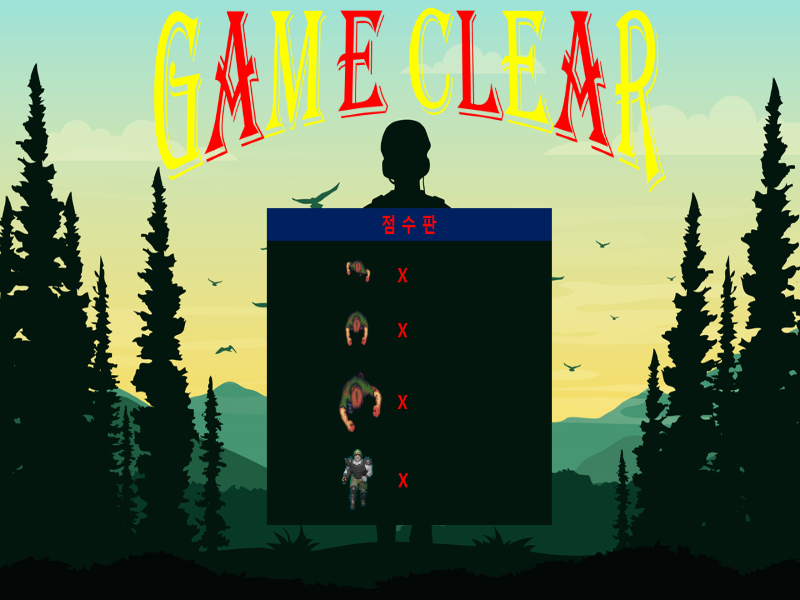
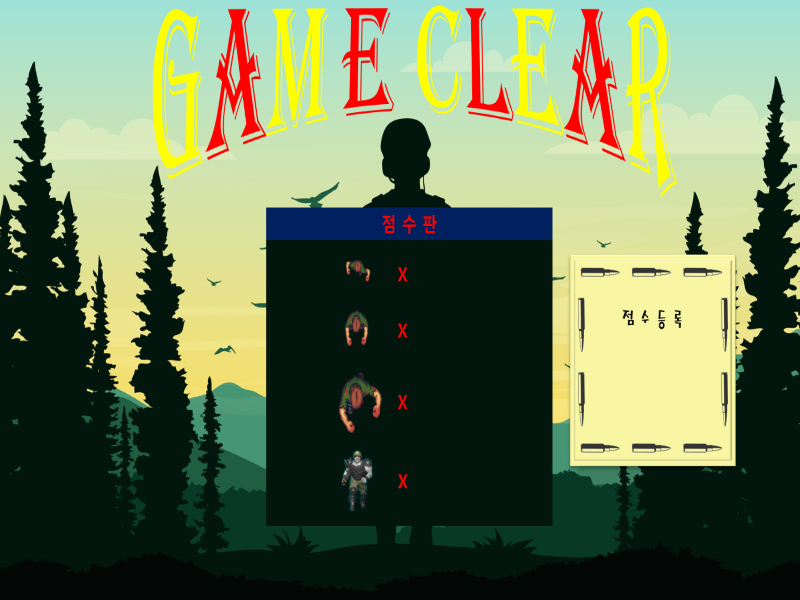
종료

diff --git a/mert.py b/mert.py
@@ -16,6 +16,9 @@ green = (17, 124, 47)
 
 #이미지
 # titleImg = pygame.image.load("images/title.png")
+scbo=pygame.image.load('images/점수판1.png')
+scbu=pygame.image.load('images/점수등록.png')
+scbuc=pygame.image.load('images/점수순위.png')
 scoreImg=pygame.image.load('images/스코어1.png')
 startImg = pygame.image.load("images/시작.png")
 quitImg = pygame.image.load("images/게임종료.png")
@@ -37,7 +40,7 @@ itemImg = ['images/item.png',"images/필살기 갯수.png"]
 zombie1Img = pygame.image.load("images/skeleton1.png")
 zombie2Img = pygame.image.load("images/skeleton2.png")
 zombie3Img = pygame.image.load('images/skeleton3.png')
-
+gg=pygame.image.load('images/game over1.png')
 fscore=0
 rockimg=pygame.image.load('images/좀비_2-removebg-preview.png')
 explosion = pygame.image.load('images/explosion.png')
@@ -51,11 +54,14 @@ score,z1c,z2c,z3c,z4c=0,0,0,0,0
 #시간
 clock = pygame.time.Clock()
 
+
+
+
 input_text = ""
 #캐릭터
 playerparms = [0,0,0,0,0,0,0,0]
-serv1parms = [ch1, 5, 377, 450, 37, 55, 1.1,0]
-serv2parms = [ch2,3.5,380,450,37,66, 1.02,1]
+serv1parms = [ch1, 6, 377, 450, 20, 20, 1.1,0]
+serv2parms = [ch2,3,380,450,20,20, 1.001,1]
 
 
 # Button 클래스
@@ -154,7 +160,7 @@ def display_scores():
     # 점수 화면에 표시
     for i, score in enumerate(sorted_scores):
         text_surface = font.render(f"{i+1}. {score['name']}: {score['score']}", True, (0, 0, 0))
-        gameDisplay.blit(text_surface, (100, 100 + i * 40))
+        gameDisplay.blit(text_surface, (100, 250 + i * 40))
 
     pygame.display.update()
 
@@ -173,7 +179,8 @@ def save_to_json(name):
 def scoresave():
     global input_text,z1c,z2c,z3c,z4c,fscore
     font = pygame.font.SysFont("malgungothic", 30)
-    te='이름입력'
+    font1 = pygame.font.SysFont("malgungothic", 25)
+    te=''
     while True:
         for event in pygame.event.get():
             if event.type == pygame.QUIT:
@@ -194,8 +201,8 @@ def scoresave():
         
         gameDisplay.fill((255, 255, 255))
         backg = Background(sb, 0, 0)
-        na=font.render(te,True,red)
-        gameDisplay.blit(na, (80, 190))
+        na=font1.render(te,True,red)
+        gameDisplay.blit(na, (610, 350))
         z1 = font.render(str(z1c), True, red)
         z2 = font.render(str(z2c),True,red)
         gameDisplay.blit(z1, (450, 252))
@@ -211,12 +218,12 @@ def scoresave():
         startButton = Button(mmImg,40,450,120,70,mmImg,50,450,board)
         quitButton = Button(quitImg,40,530,120,70,quitImg,50,530,quitgame)
         # 입력 상자 표시
-        pygame.draw.rect(gameDisplay, (255, 255, 255), (70, 252, 150, 40)) #그냥상자
-        pygame.draw.rect(gameDisplay, red, (70, 252, 150, 40),2)  #외각선
+        # pygame.draw.rect(gameDisplay, (255, 255, 255), (600, 350, 100, 40)) #그냥상자
+        # pygame.draw.rect(gameDisplay, red, (600, 350, 100, 40),2)  #외각선
         
         text_surface = font.render(input_text, True, red)  #글자써지는위치
         
-        gameDisplay.blit(text_surface, (80, 252))
+        gameDisplay.blit(text_surface, (610, 350))
 
         pygame.display.flip()
     
@@ -237,29 +244,31 @@ def text_objects(text, font):
     return textsurface, textsurface.get_rect()
 
 # 충돌시 출력
-def crash(text,st):
-    largeText = pygame.font.SysFont("malgungothic", 46)
-    TextSurf = largeText.render(text, True, red)
-    TextRect = TextSurf.get_rect()
-    TextRect.center = ((display_width / 2), (display_height / 2))
-    gameDisplay.blit(TextSurf, TextRect)
-    
+def crash(st):
+    # # largeText = pygame.font.SysFont("malgungothic", 46)
+    # # TextSurf = largeText.render(text, True, red)
+    # TextRect = TextSurf.get_rect()
+    # TextRect.center = ((display_width / 2), (display_height / 2))
+    # gameDisplay.blit(TextSurf, TextRect)
+    backg = Background(gg, 0, 0)
     pygame.display.update()
     time.sleep(1)
+    
+
     restart(st)
 
 
 #기록확인
 def board():
     scores = load_scores()
-    sorted_scores = sorted(scores, key=lambda x: x["score"], reverse=True)[:10]
+    sorted_scores = sorted(scores, key=lambda x: x["score"], reverse=True)[:5]
     font = pygame.font.SysFont("malgungothic", 30)
     gameDisplay.fill((255, 255, 255))
 
     # 점수 화면에 표시
+    scbo
     
-    
-    
+    backg = Background(scbo, 0, 0)
     while True:
         for event in pygame.event.get():
             if event.type == pygame.QUIT:
@@ -268,8 +277,8 @@ def board():
 
         for i, score in enumerate(sorted_scores):
             text_surface = font.render(f"{i+1}. {score['name']}: {score['score']}", True, (0, 0, 0))
-            gameDisplay.blit(text_surface, (300, 100 + i * 40))
-
+            gameDisplay.blit(text_surface, (320, 180 + i * 30))
+        
         startButton = Button(mmImg,40,450,120,70,mmImg,50,450,mainmenu)
         quitButton = Button(quitImg,40,530,120,70,quitImg,50,530,quitgame)
         pygame.display.update()
@@ -375,7 +384,7 @@ def mainmenu():
         spButton=Button(spimg,50,450,100,70,spimg,60,440,sScreen)
         # storyButton=Button(storyimg,50,500,100,80,storyimg,60,490,ssScreen)
         storyButton=Button(storyimg,50,520,100,70,storyimg,60,510,scoresave)
-        boButton=Button(storyimg,50,380,100,70,storyimg,60,370,board)
+        boButton=Button(scbuc,50,380,100,70,scbuc,60,370,board)
         
         # startButton = Button(startImg,550,30,60,20,clickStartImg,545,26,selectScreen)
         pygame.display.update()
@@ -413,7 +422,7 @@ def devScreen1(st):
         backg = Background(pygame.image.load(nst[2]), 0, 0)
         startButton = Button(mmImg,40,450,120,70,mmImg,50,450,mainmenu)
         quitButton = Button(quitImg,40,530,120,70,quitImg,50,530,quitgame)
-        svButton = Button(quitImg,40,330,120,70,quitImg,50,330,scoresave)  
+        svButton = Button(scbu,40,370,120,70,scbu,50,370,scoresave)  
         deltaY-= 0.7
         i=0
         msg_list=[]
@@ -500,8 +509,8 @@ def gameScreen(st=1):
     item = Gameobject(pygame.image.load(itemImg[playerparms[7]]), 5, random.randrange(0, display_width - 20), -600, 40, 35)
     zombie1 = Gameobject(zombie1Img, 3, random.randrange(0, display_width - 20),-600,40,35)
     zombie2 = Gameobject(zombie3Img, 3, random.randrange(0, display_width - 20),-1000,40,35)
-    zombie3 = Gameobject(zombie2Img, 4, random.randrange(0, display_width - 20),random.randrange(-2000, -1000),100,100)
-    rock = Gameobject(rockimg, 4, random.randrange(0, display_width - 75),random.randrange(-200, -100),100,100)
+    zombie3 = Gameobject(zombie2Img, 4, random.randrange(0, display_width - 20),random.randrange(-2000, -1000),80,40)
+    rock = Gameobject(rockimg, 4, random.randrange(0, display_width - 75),random.randrange(-200, -100),80,40)
     missile = pygame.image.load(miss[serv.missile]) #미사일 그림
     spe = Gameobject(speImg, 4, 800,-600,10,10)
     backImg=pygame.image.load(back[st])
@@ -511,7 +520,8 @@ def gameScreen(st=1):
     global input_text
     input_text=''
     score = 0
-    time_remaining -= clock.get_time() / 1000  # 밀리초를 초로 변환
+    time_remaining = 32  # 시간 제한 (초)
+    
     font = pygame.font.SysFont("malgungothic", 30)
     
     bombnum=2
@@ -533,8 +543,8 @@ def gameScreen(st=1):
     while not gameexit:
         gameDisplay.fill(white)
         
+        time_remaining -= clock.get_time() / 1000  # 밀리초를 초로 변환
         
-
         # 이벤트
         for event in pygame.event.get():
            if event.type == pygame.QUIT:
@@ -608,8 +618,7 @@ def gameScreen(st=1):
         
         if backguy ==600:
             backguy =-600
-        if time_remaining <= 0: #시간
-            game_over = True 
+        
         backgy += 5
         backguy += 5
         bg = Background(backImg, backgx, backgy)
@@ -620,8 +629,8 @@ def gameScreen(st=1):
         bg4= Background(backImg,backgrx,backguy)
         bg5= Background(backImg,backglx,backguy)
         
-        time_text = font.render(f"Time: {max(0, int(time_remaining))}", True, (0, 0, 0)) #시간
-        gameDisplay.blit(time_text, (300, 10))
+        time_text = font.render(f"Time: {max(0, int(time_remaining))}", True, red) #시간
+        gameDisplay.blit(time_text, (600, 20))
         
         gameDisplay.blit(pygame.image.load(itemImg[playerparms[7]]), (400,20 ))
         gameDisplay.blit(scoreImg, (20,20 ))
@@ -634,7 +643,8 @@ def gameScreen(st=1):
             
         gameDisplay.blit(serv.p_img, (serv.serv_x, serv.serv_y))
         
-        
+        if time_remaining <= 0: #시간
+            crash(st) 
         # 낙하 속도 
         item.coord_y += item.speed
         zombie1.coord_y += zombie1.speed
@@ -727,7 +737,7 @@ def gameScreen(st=1):
                and serv.serv_x < zombie1.coord_x + zombie1.hitbox_x \
                or serv.serv_x + serv.hitbox_x > zombie1.coord_x \
                and serv.serv_x + serv.hitbox_x < zombie1.coord_x + zombie1.hitbox_x:
-               crash('game over',st)
+               crash(st)
                 
         # ch 
         if serv.serv_y < zombie2.coord_y + zombie2.hitbox_y:
@@ -735,14 +745,14 @@ def gameScreen(st=1):
                and serv.serv_x < zombie2.coord_x + zombie2.hitbox_x \
                or serv.serv_x + serv.hitbox_x > zombie2.coord_x \
                and serv.serv_x + serv.hitbox_x < zombie2.coord_x + zombie2.hitbox_x:
-               crash('game over',st)
+               crash(st)
         # 큰좀비 
         if serv.serv_y < zombie3.coord_y + zombie3.hitbox_y:
             if serv.serv_x > zombie3.coord_x \
                and serv.serv_x < zombie3.coord_x + zombie3.hitbox_x \
                or serv.serv_x + serv.hitbox_x > zombie3.coord_x \
                and serv.serv_x + serv.hitbox_x < zombie3.coord_x + zombie3.hitbox_x:
-               crash('game over',st)
+               crash(st)
 
         # 폭탄       
         if serv.serv_y < item.coord_y + item.hitbox_y \
@@ -762,7 +772,7 @@ def gameScreen(st=1):
                and serv.serv_x < rock.coord_x + rock.hitbox_x \
                or serv.serv_x + serv.hitbox_x > rock.coord_x \
                and serv.serv_x + serv.hitbox_x < rock.coord_x + rock.hitbox_x:
-               crash('game over',st)
+               crash(st)
         
         
         # 점수 표시
